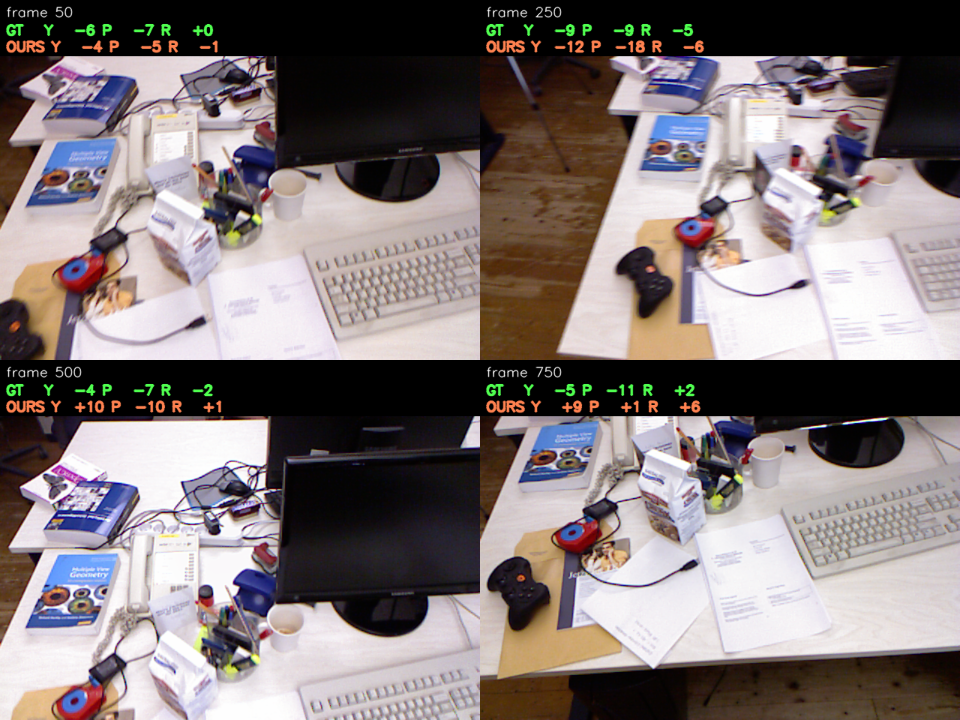
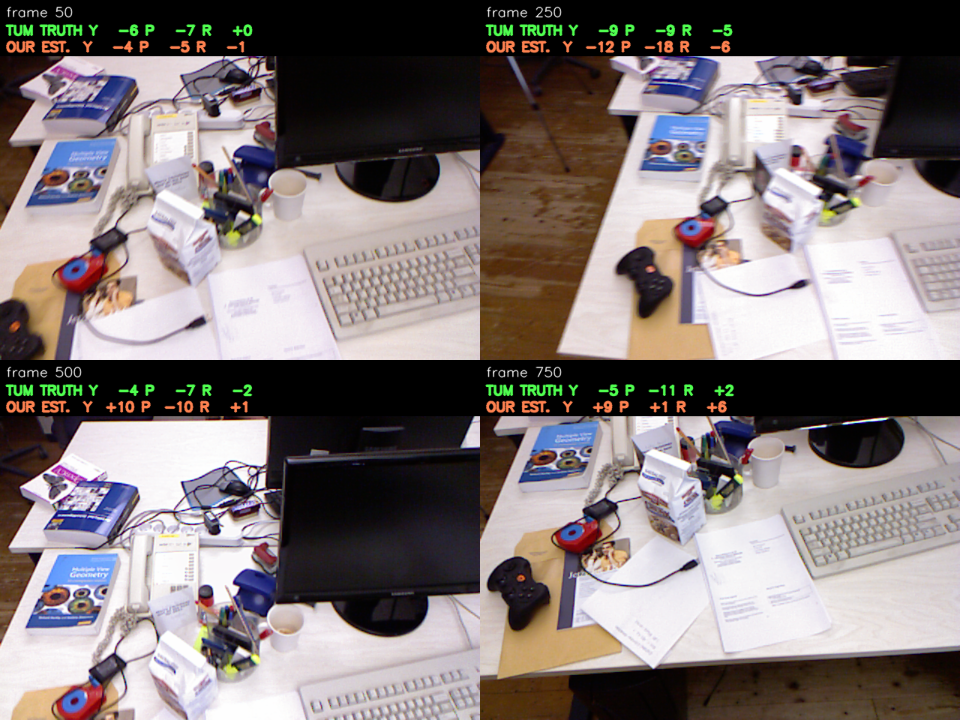
docs : 加入 desk GIF + 標籤改 TUM TRUTH/OUR EST. + README 圖例
- 釐清顏色: 綠=TUM TRUTH(動捕真值,他們的) / 藍=OUR EST.(我們的估計)
- 新增 docs/tum_desk.gif(展示快速序列的長期漂移對照)
- README 加圖例與兩段 GIF(xyz貼合 / desk漂移)
- 同步更新逐幀並排圖標籤

diff --git a/2/benchmarks/tum_make_gif.py b/2/benchmarks/tum_make_gif.py
@@ -62,12 +62,12 @@ def main():
         err = geodesic_deg(pr, g0.T @ gR[j])
 
         cv2.rectangle(img, (0, 0), (img.shape[1], 74), (0, 0, 0), -1)
-        cv2.putText(img, f"TUM freiburg1  frame {i}  err {err:3.0f} deg", (8, 22),
-                    0, 0.55, (255, 255, 255), 1, cv2.LINE_AA)
-        cv2.putText(img, f"GT   Y{gy[0]:+5.0f} P{gy[1]:+5.0f} R{gy[2]:+5.0f}", (8, 46),
-                    0, 0.6, (80, 255, 80), 2, cv2.LINE_AA)
-        cv2.putText(img, f"OURS Y{py[0]:+5.0f} P{py[1]:+5.0f} R{py[2]:+5.0f}", (8, 68),
-                    0, 0.6, (80, 130, 255), 2, cv2.LINE_AA)
+        cv2.putText(img, f"TUM {os.path.basename(args.seq).split('_')[-1]}  frame {i}  err {err:3.0f} deg",
+                    (8, 22), 0, 0.55, (255, 255, 255), 1, cv2.LINE_AA)
+        cv2.putText(img, f"TUM TRUTH Y{gy[0]:+5.0f} P{gy[1]:+5.0f} R{gy[2]:+5.0f}", (8, 46),
+                    0, 0.55, (80, 255, 80), 2, cv2.LINE_AA)
+        cv2.putText(img, f"OUR EST.  Y{py[0]:+5.0f} P{py[1]:+5.0f} R{py[2]:+5.0f}", (8, 68),
+                    0, 0.55, (80, 130, 255), 2, cv2.LINE_AA)
 
         hgt = int(img.shape[0] * args.size / img.shape[1])
         small = cv2.resize(img, (args.size, hgt))

diff --git a/2/benchmarks/tum_frame_compare.py b/2/benchmarks/tum_frame_compare.py
@@ -58,10 +58,10 @@ def main():
         im = imgs[fi].copy()
         cv2.rectangle(im, (0, 0), (im.shape[1], 74), (0, 0, 0), -1)
         cv2.putText(im, f"frame {fi}", (8, 22), 0, 0.6, (255, 255, 255), 1, cv2.LINE_AA)
-        cv2.putText(im, f"GT   Y{gy[0]:+5.0f} P{gy[1]:+5.0f} R{gy[2]:+5.0f}",
-                    (8, 46), 0, 0.6, (80, 255, 80), 2, cv2.LINE_AA)
-        cv2.putText(im, f"OURS Y{py[0]:+5.0f} P{py[1]:+5.0f} R{py[2]:+5.0f}",
-                    (8, 68), 0, 0.6, (80, 130, 255), 2, cv2.LINE_AA)
+        cv2.putText(im, f"TUM TRUTH Y{gy[0]:+5.0f} P{gy[1]:+5.0f} R{gy[2]:+5.0f}",
+                    (8, 46), 0, 0.58, (80, 255, 80), 2, cv2.LINE_AA)
+        cv2.putText(im, f"OUR EST.  Y{py[0]:+5.0f} P{py[1]:+5.0f} R{py[2]:+5.0f}",
+                    (8, 68), 0, 0.58, (80, 130, 255), 2, cv2.LINE_AA)
         panels.append(cv2.resize(im, (480, 360)))
 
     half = (len(panels) + 1) // 2

diff --git a/2/readme.md b/2/readme.md
@@ -165,9 +165,17 @@ python benchmarks/validate_scene.py   # 室內/戶外 → 準確率 + PASS/FAIL
 
 ### 真實世界對比：TUM RGB-D（我們的輸出 vs 動捕真值）
 
-在 [TUM RGB-D](https://cvg.cit.tum.de/data/datasets/rgbd-dataset) 公開測試序列上，用**同一批測試影格**跑我們的系統，和他們的**動作捕捉真值**逐幀對比（綠＝真值、藍＝我們的估計）：
+在 [TUM RGB-D](https://cvg.cit.tum.de/data/datasets/rgbd-dataset) 公開測試序列上，用**同一批測試影格**跑我們的系統，和他們的**動作捕捉真值**逐幀對比。
+
+> **圖例**：🟢 綠字 `TUM TRUTH` = TUM 動捕**真值**（他們的標準答案）　🔵 藍字 `OUR EST.` = **我們**系統的估計。
+
+**① 中速序列 `freiburg1_xyz` — 全程貼合真值：**
 
 ![TUM freiburg1_xyz 對比動畫](docs/tum_xyz.gif)
+
+**② 最難序列 `freiburg1_desk`（快速＋動態模糊）— 前段準、後段漂移：**
+
+![TUM freiburg1_desk 對比動畫](docs/tum_desk.gif)
 
 | 序列 | 速度/難度 | yaw | pitch | roll | 幾何旋轉 MAE |
 |------|-----------|-----|-------|------|-------------|